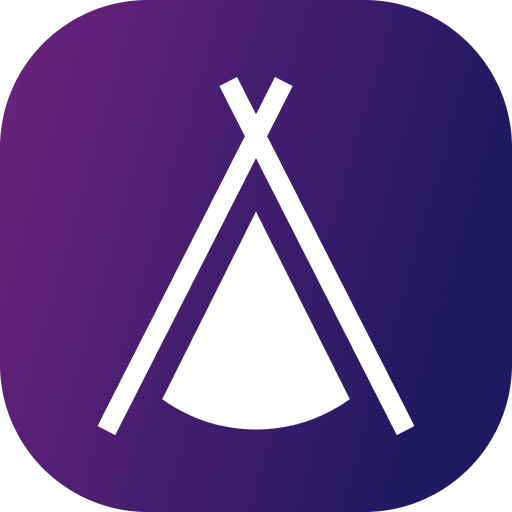
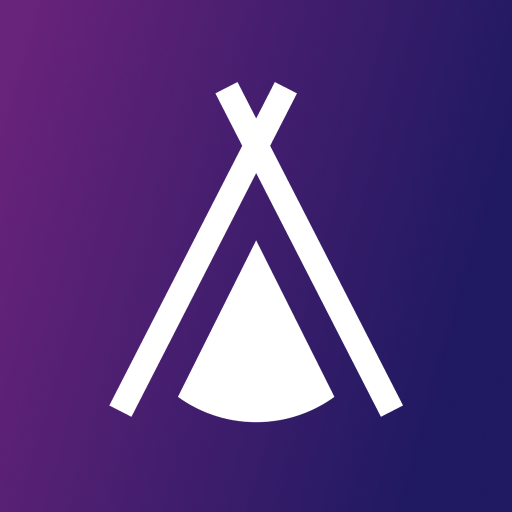
build

diff --git a/flutter_service_worker.js b/flutter_service_worker.js
@@ -4,25 +4,27 @@ const TEMP = 'flutter-temp-cache';
 const CACHE_NAME = 'flutter-app-cache';
 
 const RESOURCES = {"version.json": "a1f65f9e254ecb4a7add6a1495ff4577",
-"index.html": "9cd18bb4a4e3c9d4f8cc481fea945824",
-"/": "9cd18bb4a4e3c9d4f8cc481fea945824",
+"index.html": "306939655497f25a187040af12cd2039",
+"/": "306939655497f25a187040af12cd2039",
 "CNAME": "fdf6c2d49c4122659110a7e4742a5136",
 "main.dart.js": "27ea096535d51da07875a8f34f00ace7",
 "404.html": "f4e3edb53349945387e617abbd0fd231",
 "flutter.js": "6fef97aeca90b426343ba6c5c9dc5d4a",
-"favicon.png": "c3901adef6479a25a90861f0f70b652b",
-"icons/Icon-192.png": "ae7ab74a42caa973f08f824c6ebe832c",
-"icons/Icon-maskable-192.png": "ae7ab74a42caa973f08f824c6ebe832c",
-"icons/Icon-maskable-512.png": "6c735e5cb0c95f996acae122e0668a9c",
-"icons/Icon-512.png": "6c735e5cb0c95f996acae122e0668a9c",
-"manifest.json": "7a6fbbfde0f3cc02e7b305e6f3b5ec72",
+"favicon.png": "3aaf9dbfefaaf74d8dacee86ca647616",
+"icons/Icon-192.png": "6e50e2dee1aaa849c995e88a0ffe4360",
+"icons/Icon-maskable-192.png": "6e50e2dee1aaa849c995e88a0ffe4360",
+"icons/Icon-maskable-512.png": "a577237928fbf0996bb2a32093825230",
+"icons/Icon-512.png": "a577237928fbf0996bb2a32093825230",
+"manifest.json": "0f5818a4c596fd1c9bf5b5a0b2a512c6",
 ".git/config": "8e0186ac6805b7994c0e5bc675e1ce92",
+".git/objects/61/ce2129f3b944b302f148bdebf166f0dabef81e": "c328d2f9b4c0a1ae77bc1471c368e7fb",
 ".git/objects/0d/1fc4c2d086afc722cc8108d579b6fa6391a080": "00502446ae64c2875065c711805fe208",
 ".git/objects/0d/fa6458d1873ac133d967a71722318f13174983": "1bf235e05d89b8c33ad122e196cf32a4",
 ".git/objects/95/b5548610dc96865e83cc2ee0a78666ad428092": "57d885ba57929a899ce41c0e1a218a38",
 ".git/objects/92/7372c06a6c70d2c9b9a2529caf02dbe3e730b3": "8c35b639e16b58fbe362536fb2c28890",
 ".git/objects/66/36718cfc801eaf8b0ac81ea62f047d3ab436b3": "d5fe6f18061ed8c9eb63d75da1aba998",
 ".git/objects/3e/2e2f655a74cb6bf589e84dac716cf29aa89f50": "079780cd30936028e19ce0462095a9eb",
+".git/objects/68/a1635fe19591cd25bd5cd9d078b37166474dc4": "a208e3cbbbc7c1e7f96dd565dd65ae3a",
 ".git/objects/68/dc3dbbc5e41d880271ea3dd4cf823619775fbd": "7b34eefc8577f689c49eb8a6729eaf18",
 ".git/objects/68/67c4b514e9c89da3329387208fe5a803934bd9": "625e61cdd1e9096c1564ffa0e8139d6f",
 ".git/objects/57/d1aaaf81a926646251340651183ab9822d81a2": "4aeedebcb1be62d734f4b274ce0bc7e8",
@@ -34,6 +36,7 @@ const RESOURCES = {"version.json": "a1f65f9e254ecb4a7add6a1495ff4577",
 ".git/objects/03/493e40bf1102a2ac03e1ca0878583f085ad26c": "3af94940fc5c8fd2d6c0c8d007beeaa0",
 ".git/objects/03/c531a7a4eadfbb97e5434401927ee31890cf33": "fe6b24f60048b7f218835d95c2c650ae",
 ".git/objects/9b/9acd64591239d3d315258cfc41aca8f997fce3": "d13c20e0e8158d3e869d21aae4e06200",
+".git/objects/6a/68387b6e62f95943529b1be62ab20ce2e1364d": "4685c01413f4fbfa16856170f1ddbc7c",
 ".git/objects/32/c14d54032058e05632675b82f374afff634364": "98da3a9512d0a79a60ba71cf6e18040e",
 ".git/objects/35/91af41948adc8001f3586d76b91181311953fc": "c91d33b29071dcff3b2b3385383761cb",
 ".git/objects/69/1d2dfe12c94504fc53f365f5c5a531db688cc8": "53f73cd30041e9f0ba3fbf293cc2bb8d",
@@ -71,6 +74,7 @@ const RESOURCES = {"version.json": "a1f65f9e254ecb4a7add6a1495ff4577",
 ".git/objects/d7/963312859a840e3f323099001713f01f067859": "6d2de14e3054d4c97692ed77c02f894f",
 ".git/objects/d7/2a77cc58c8ffa95d00da19682c28ac53fb39a7": "2bcd308f6da7b97b051b2a82d907e776",
 ".git/objects/be/899766e7b54b10ebd5a3084388aca1b79fffe7": "c26f6c52354889a1bbd3362c2560eeb2",
+".git/objects/be/9cb956ebb73805afe51a7f8ef38b417183b84f": "543b30863281011785a27d6144cc60e6",
 ".git/objects/b3/15582610f5d2756540a1219b9f2be1ff4fa2a7": "2913a5278a651195383c55c9cc00b496",
 ".git/objects/b3/9637abb99f8f68be19056a8b1e1c3578a03483": "bd136e78f40eef19d41dd2be2471194c",
 ".git/objects/da/5402d55f2efa13aaa783c7814f4a05d193caf0": "09eb3249af9730e0ae8c8990d9704018",
@@ -83,9 +87,11 @@ const RESOURCES = {"version.json": "a1f65f9e254ecb4a7add6a1495ff4577",
 ".git/objects/ab/ef9ea750d5f47128ed1f201f2b74ea0196afd9": "0466fe139e9319c1c17b89c39917cdb9",
 ".git/objects/e5/5162782b9a55dda1b6b3379984ac1ecb790b4e": "3bd878c11aa109eb422baca154c738a0",
 ".git/objects/f4/9b5836fc89c80e041469a9278bdfad163e92a8": "e76a53c57d7a75adc05c968974137f6b",
+".git/objects/eb/48c21780e966a11c196d44245c7cf6cef67db4": "a9ca740f181affe723cd0e7fbb5cb7d9",
 ".git/objects/c7/72effa0b87eb2dfc4a2996c78f802ac6216d84": "6fe0786a412bdf536286657b91989d82",
 ".git/objects/c7/221b45f35284ff791880d5e9689cdd932e9d03": "249f60781441f2b9ddae4ca3ad0fa878",
 ".git/objects/c7/f6fa9f87485b44504c5892d877bf0fe0cd6f19": "2892eb3cf9e257a657ce0301edabb451",
+".git/objects/ee/0ac77df68c0c47b4f9d4c2f24565ee99bc8a3a": "36d52e49618a2dea98f9af3aef6df068",
 ".git/objects/c9/8b98f1c60e582c1d6e8bcf4248384d1f576cc4": "8fb28210051e7422ee9315aaec6eb6c2",
 ".git/objects/fd/0dba76e90d025994954b4f1db3f299dabe8c59": "dc49c6c42bd5b253a1157e98a9128155",
 ".git/objects/f2/9499c0b9e0a2d90d45c8efb033d4d56be9f2de": "eca8c95ff71a541f38b445a7d872b9b8",
@@ -150,6 +156,7 @@ const RESOURCES = {"version.json": "a1f65f9e254ecb4a7add6a1495ff4577",
 ".git/objects/6c/013533b7afb18078ae4e99f35a59d271da0e7d": "3d361e2f9055978269eb48c60f40ab5a",
 ".git/objects/99/ae9b3d30e2f83ecbe6866f314c721dc50aca8c": "1c9f3f2db787584c5d1462ca0e8edeb8",
 ".git/objects/0f/c8298c6a1d8bd06b73f7be6dc84258fd112581": "f0e6bbfce6dbf11c636d94360bd6adbe",
+".git/objects/0f/ab4fc8ab14ad59c16745fbc0ef9471d8880c2b": "4ca9dcdaeda62579f406dc5e9b4be803",
 ".git/objects/0a/2dd41617256ae65016563117df00113ac86f83": "d6cb64aa0969f140d93251ef64292530",
 ".git/objects/d3/efa7fd80d9d345a1ad0aaa2e690c38f65f4d4e": "610858a6464fa97567f7cce3b11d9508",
 ".git/objects/d3/c8e06cc58a0410429aabc23cc189df0b40cdc6": "61667b211fa983bdd595d11c3467b43f",
@@ -179,6 +186,7 @@ const RESOURCES = {"version.json": "a1f65f9e254ecb4a7add6a1495ff4577",
 ".git/objects/c5/f812897fadbe5f3722a0e873c5d08e2a0fa3fa": "93f4ac11ea9dcf051bedd0a1cf4cbf91",
 ".git/objects/e7/be009991b739952b2f319fd34a5d8cafe9b113": "7e1fe1dfdaa7b5ac74605c6c7c6db57f",
 ".git/objects/cb/47fa980f77ce04eefc77db49d34d3dd505a95a": "792bcbebb471feda971bbe16252525f6",
+".git/objects/cb/26eb22968a1f0cd58c820045457eed3b6d8e31": "8079f26e738b037ccbf26052cea3fbb6",
 ".git/objects/f8/b1b0f488600685086cbc91b72b4d9fcc6bca10": "6b300f642cf9112f5aff6bfe5ac06602",
 ".git/objects/ce/f0e2409715578ea1c8dc95b9980912a17613d9": "6fb021ab3299506428f1432853076501",
 ".git/objects/e0/d678e6148f8278e814405c09f31ef3c55cb7a4": "474562c730c996cf2a3803e2e4624336",
@@ -211,9 +219,9 @@ const RESOURCES = {"version.json": "a1f65f9e254ecb4a7add6a1495ff4577",
 ".git/objects/22/9297e40982666cda879fba2c25fc5252e43483": "b5761b2837b96fb510965244edf89ec9",
 ".git/HEAD": "cf7dd3ce51958c5f13fece957cc417fb",
 ".git/info/exclude": "0aebccfd5866bfc3e7c8f625230c22f7",
-".git/logs/HEAD": "78b94777ccd1345c4f18c41576e3a60e",
-".git/logs/refs/heads/main": "06f64f2f367c38301d07cf72c75804fa",
-".git/logs/refs/remotes/origin/main": "2c4049f887264b34e4fd8476d99ba5b2",
+".git/logs/HEAD": "2c1f4be2e1052513a9353ea4e4c99e3f",
+".git/logs/refs/heads/main": "d3bb72a1f622f01c74da2c559c5804f9",
+".git/logs/refs/remotes/origin/main": "35240837bc78530a0f8737df67800a59",
 ".git/description": "a0a7c3fff21f2aea3cfa1d0316dd816c",
 ".git/hooks/commit-msg.sample": "579a3c1e12a1e74a98169175fb913012",
 ".git/hooks/pre-rebase.sample": "56e45f2bcbc8226d2b4200f7c46371bf",
@@ -225,9 +233,9 @@ const RESOURCES = {"version.json": "a1f65f9e254ecb4a7add6a1495ff4577",
 ".git/hooks/pre-applypatch.sample": "054f9ffb8bfe04a599751cc757226dda",
 ".git/hooks/pre-push.sample": "3c5989301dd4b949dfa1f43738a22819",
 ".git/hooks/update.sample": "517f14b9239689dff8bda3022ebd9004",
-".git/refs/heads/main": "1078226a59cebc078f0c39b20fb395c4",
-".git/refs/remotes/origin/main": "1078226a59cebc078f0c39b20fb395c4",
-".git/index": "5ffd08de1f621d3fad9c2139913778ef",
+".git/refs/heads/main": "27926fe68552416343694827658fda4c",
+".git/refs/remotes/origin/main": "27926fe68552416343694827658fda4c",
+".git/index": "4dd0b4045cdc6bb3bf7c4a58638a0919",
 ".git/COMMIT_EDITMSG": "5ab6fb8bc4e43974c6e06df8c90d3848",
 ".git/FETCH_HEAD": "c9b3925006cd3c1518446e1a58b1e818",
 "assets/AssetManifest.json": "649d7c4671cc2a224fe93f6d6b7eb39d",
@@ -238,7 +246,7 @@ const RESOURCES = {"version.json": "a1f65f9e254ecb4a7add6a1495ff4577",
 "assets/shaders/ink_sparkle.frag": "f8b80e740d33eb157090be4e995febdf",
 "assets/AssetManifest.smcbin": "14acb360019ff873697e866116c2e1d8",
 "assets/fonts/MaterialIcons-Regular.otf": "755b05945c10a6379384eb934054cd54",
-"assets/assets/app_icon.png": "8b7ae40d30f5585bff83d579167d2fa3",
+"assets/assets/app_icon.png": "d5b6e873d21543415a0e2168874f965b",
 "assets/assets/images/logo_with_text.png": "5616ae4153896b7e2ef7c72bc0b18808",
 "assets/assets/images/avatar_placeholder.png": "9e5c35756c2cc8409ba875d842f83433",
 "assets/assets/images/contribution_gif.gif": "635833c6bf950984ff83d9f6c76f0e5c",

diff --git a/index.html b/index.html
@@ -41,7 +41,7 @@
 
   <script>
     // The value below is injected by flutter build, do not touch.
-    var serviceWorkerVersion = "2135691358";
+    var serviceWorkerVersion = "1284491915";
   </script>
   <!-- This script adds the flutter initialization JS code -->
   <script src="flutter.js" defer></script>
